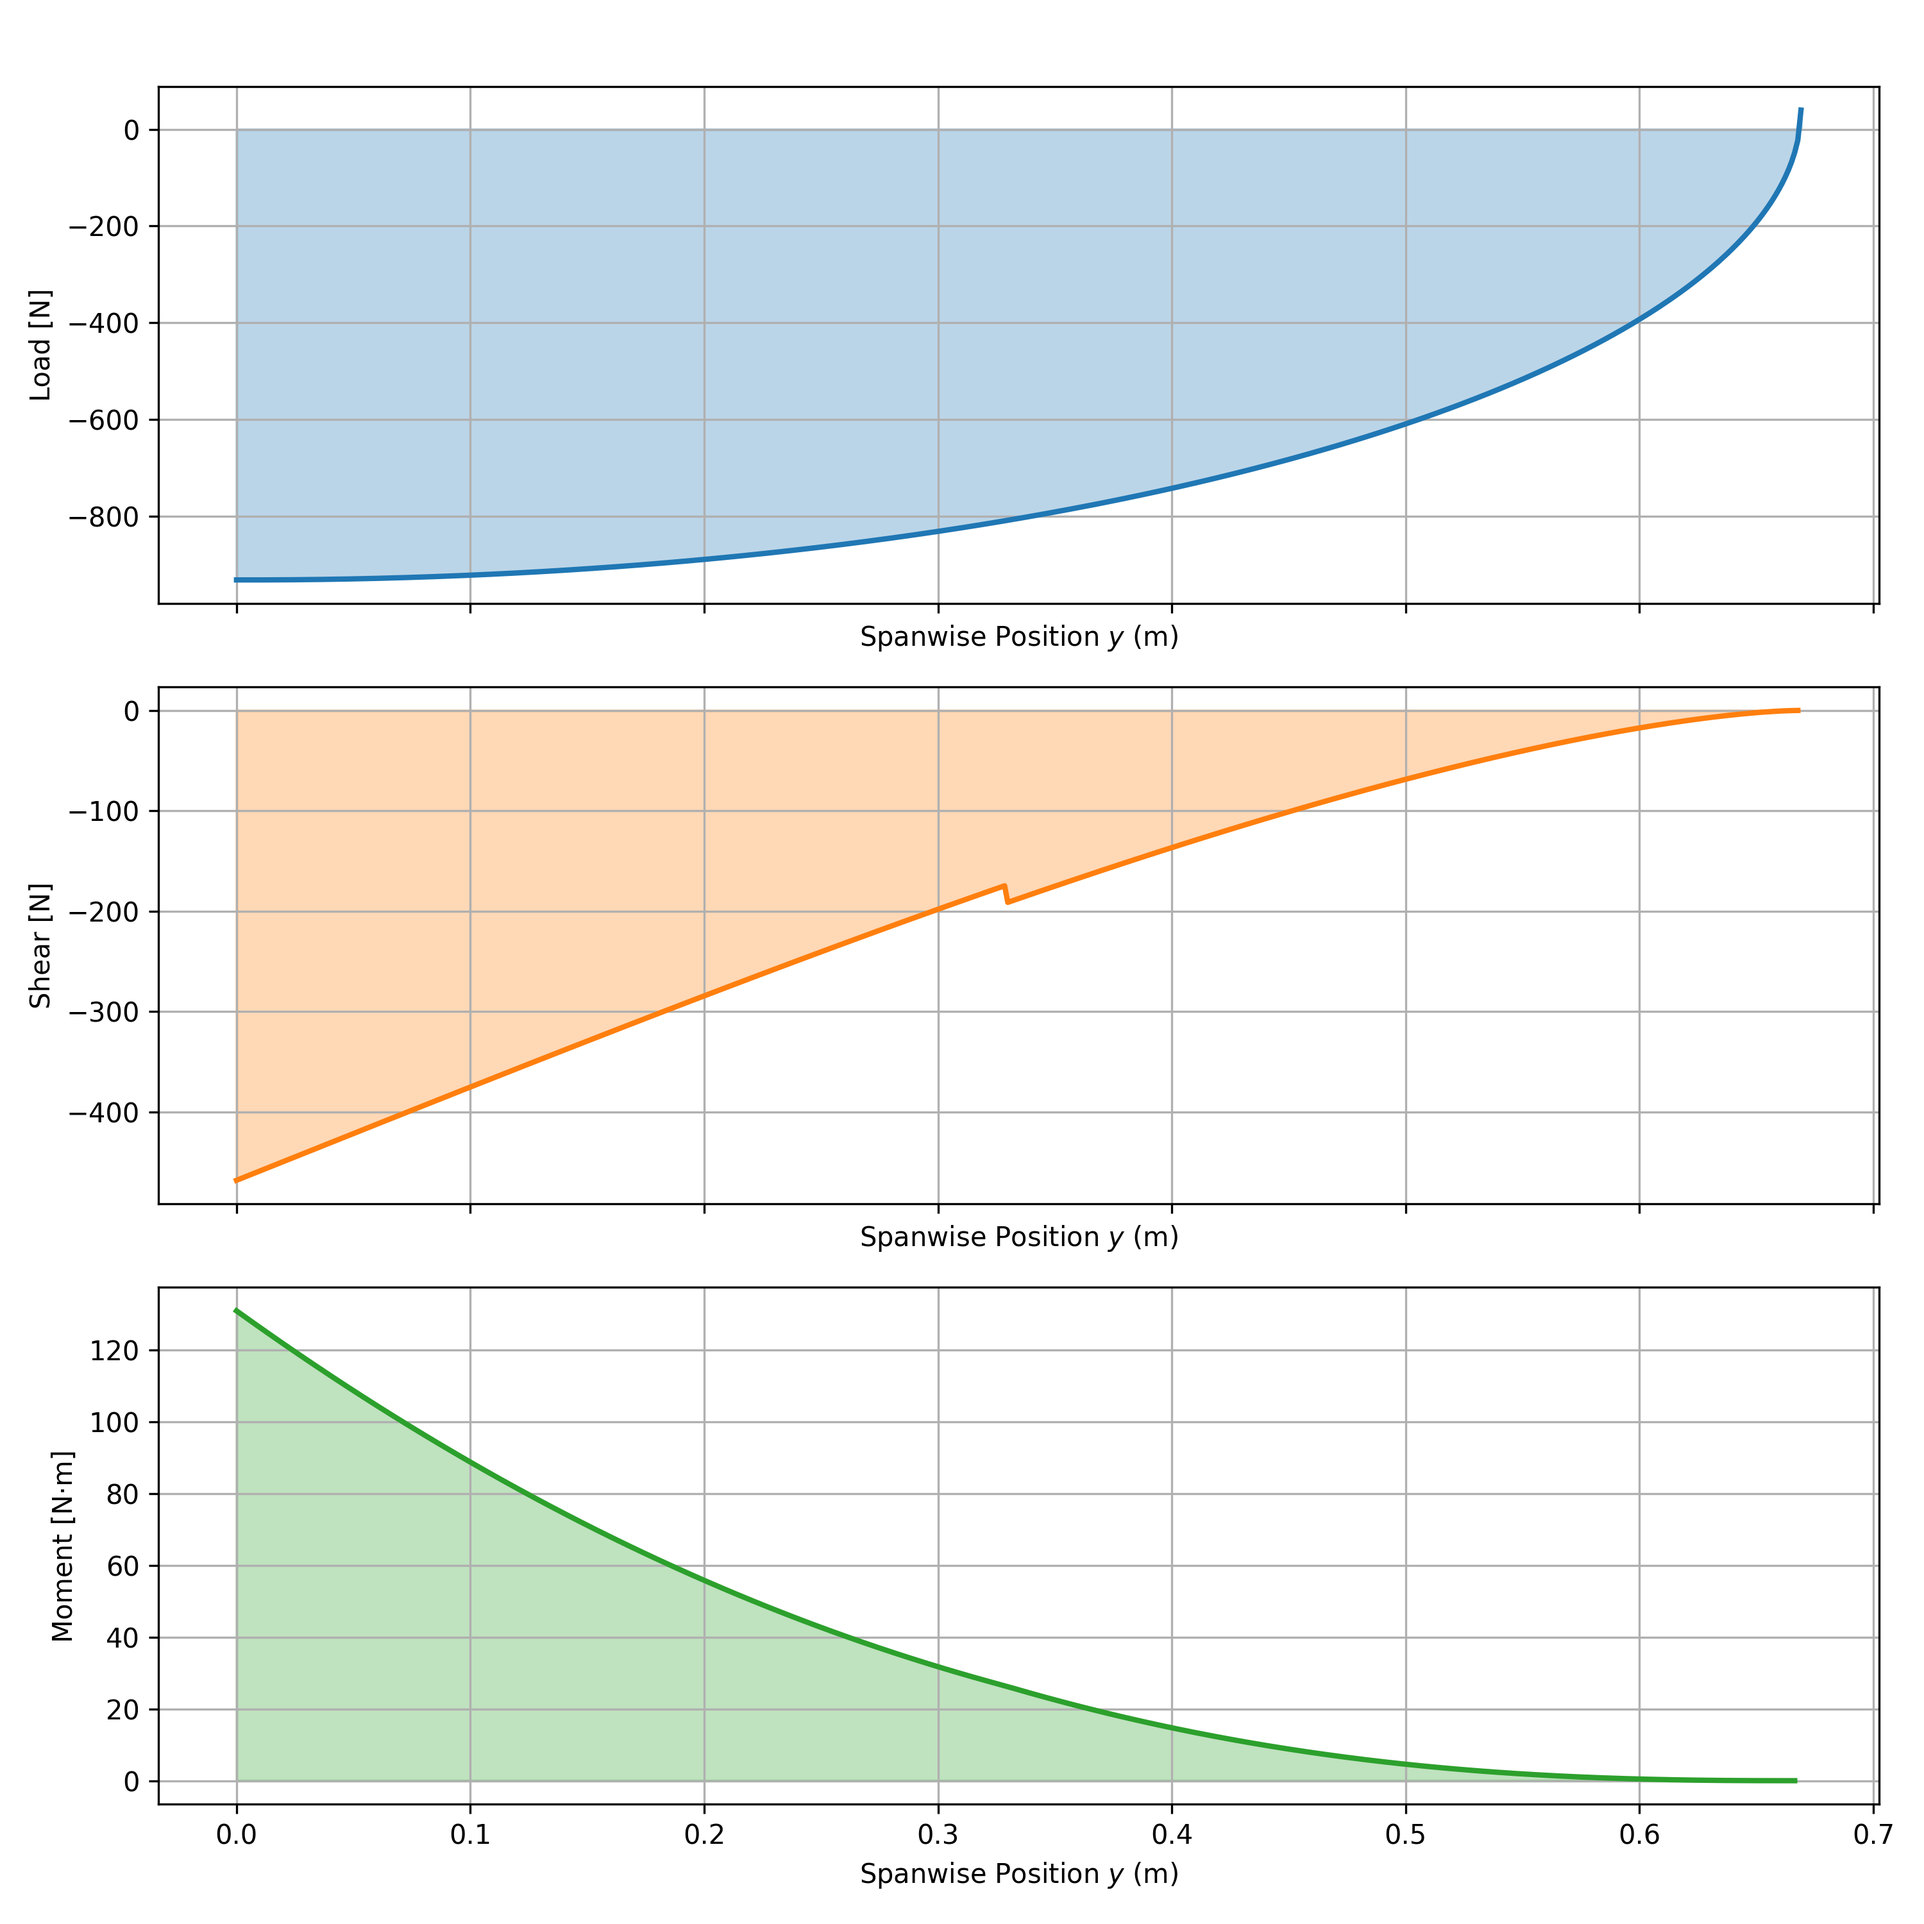
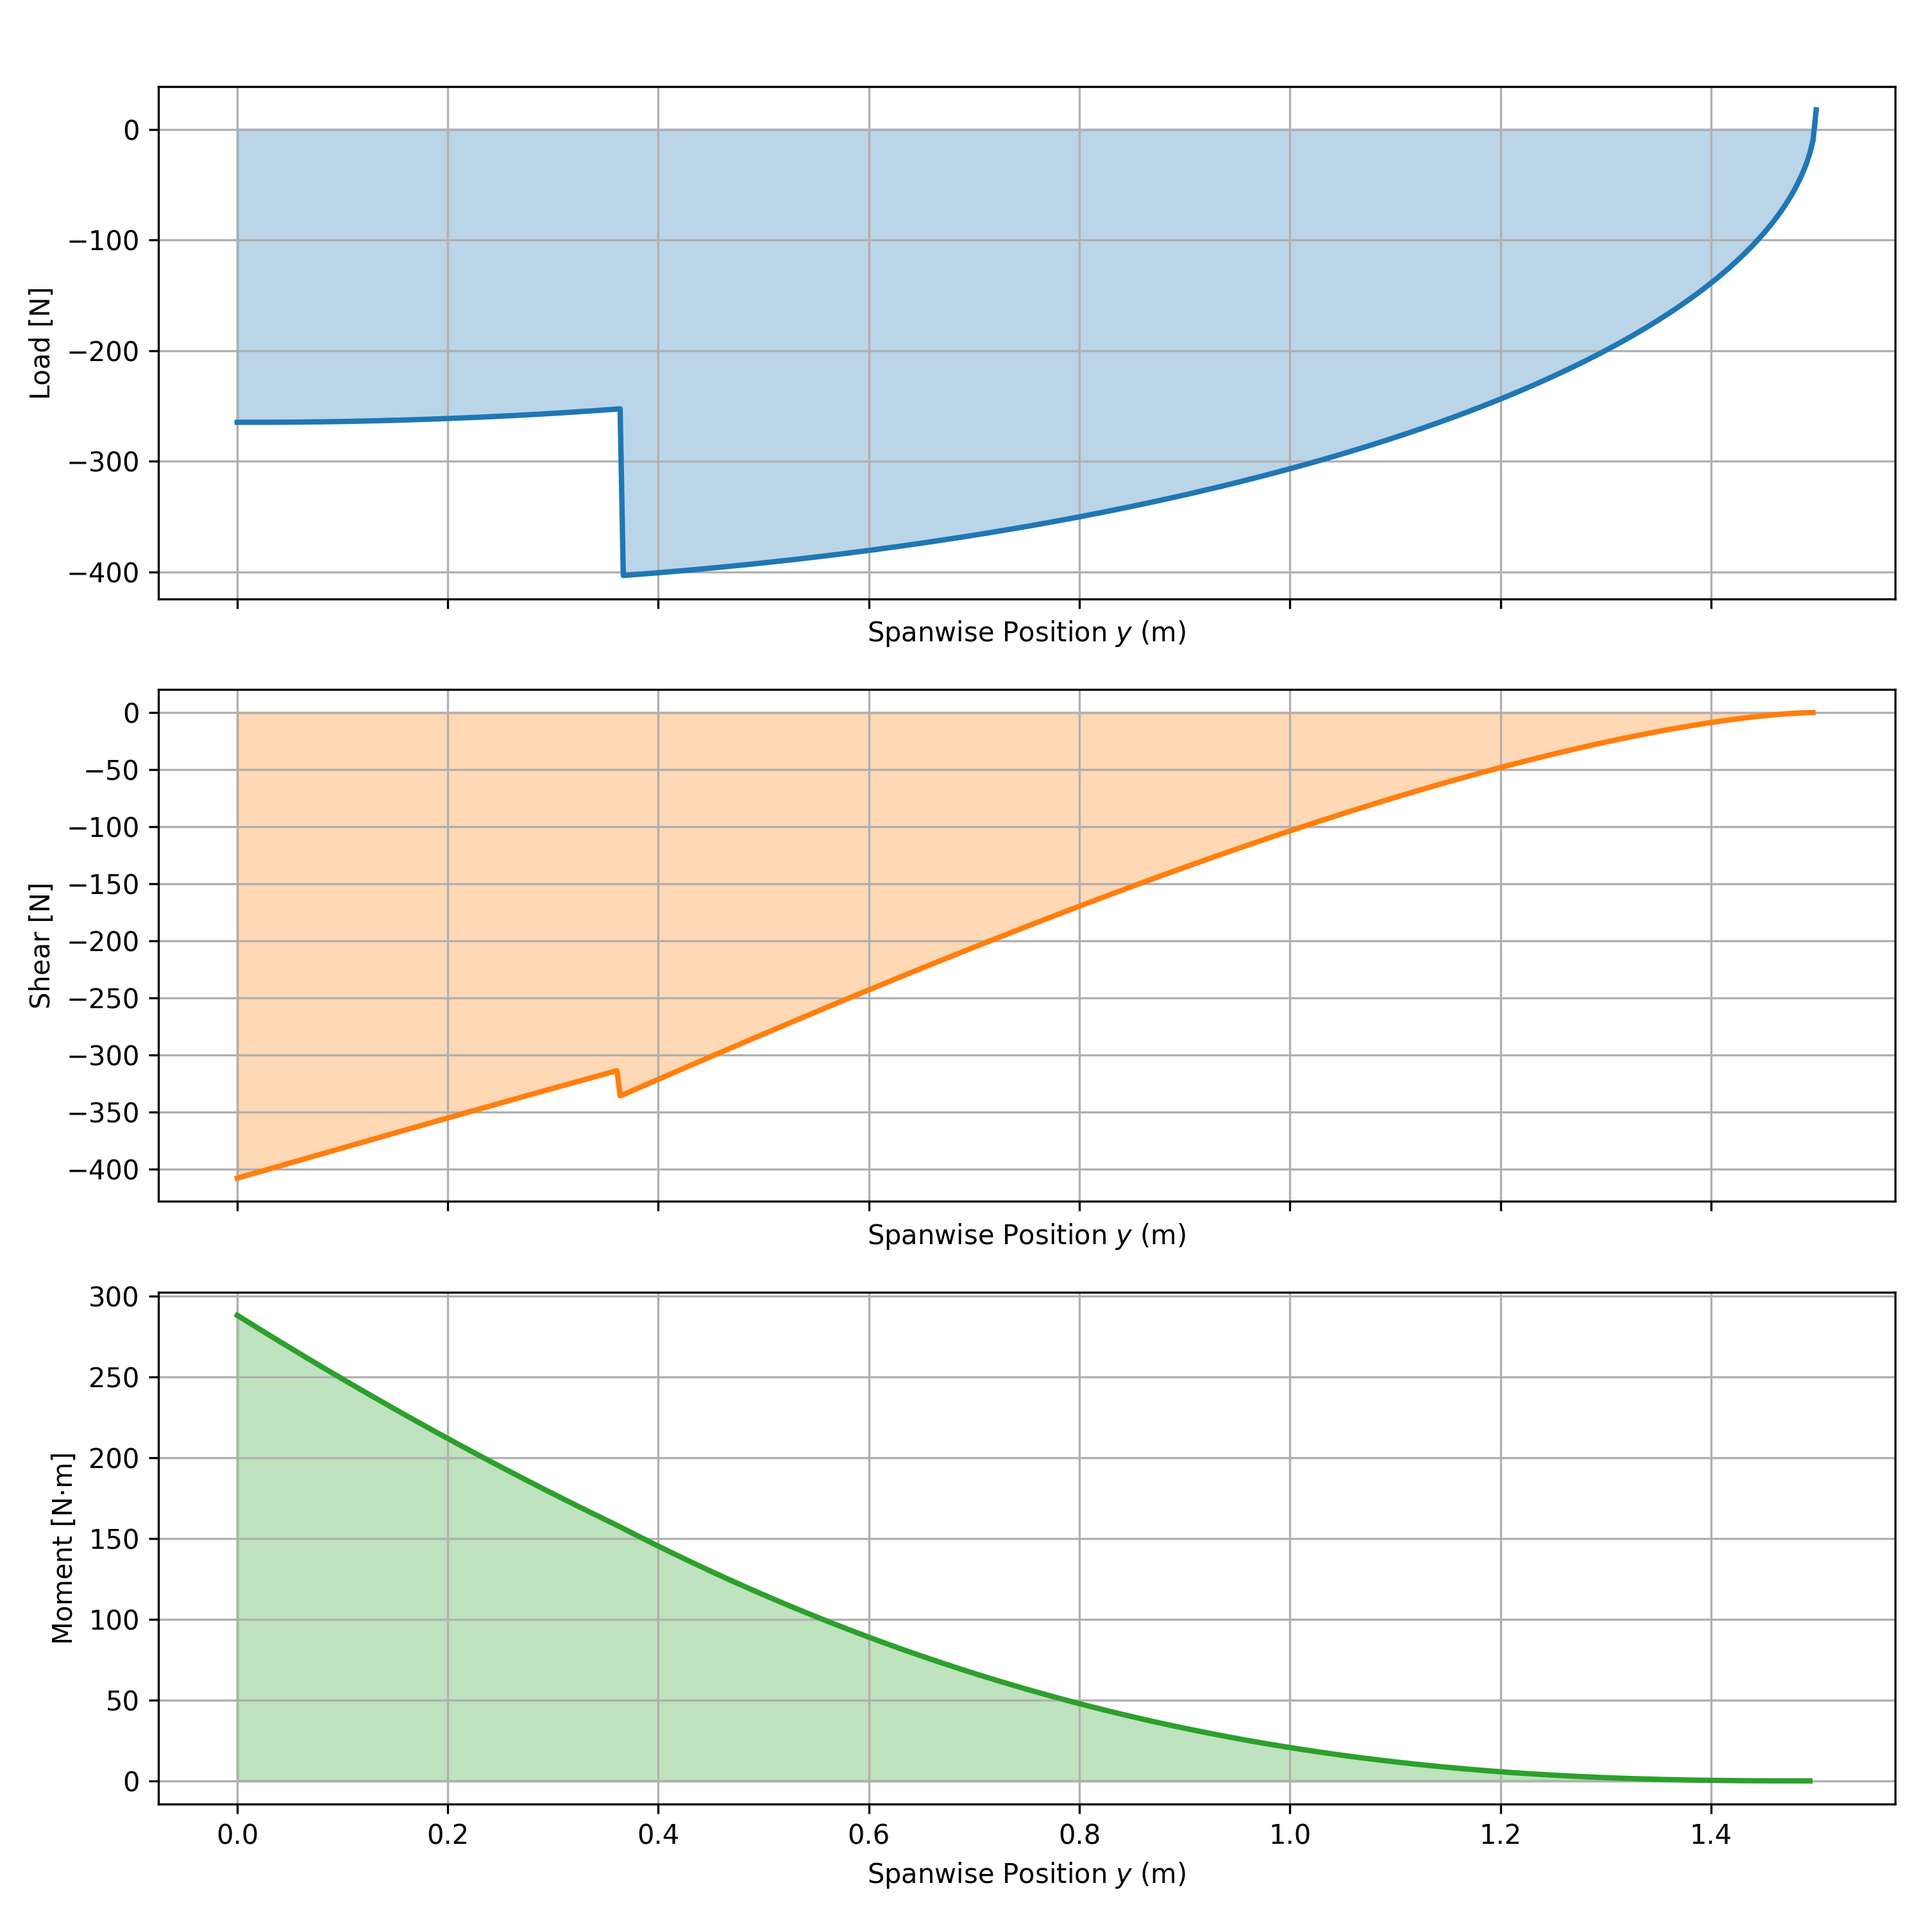
Doing ma best once more

diff --git a/DetailedDesign/subsystems/structures.py b/DetailedDesign/subsystems/structures.py
@@ -36,12 +36,10 @@ class Structures:
         self.rho = self.inputs['rho_0']
         # self.V_max = self.inputs['V_cruise']
 
-        self.M_to = inputs["M_to"]
-
-        self.mass_margin = inputs["mass_margin"]
+        # self.mass_margin = inputs["mass_margin"]
 
         self.mass_payload = inputs["payload_mass"]
-        self.mass_hardware = inputs["mass_hardware"]
+        # self.mass_hardware = inputs["mass_hardware"]
         self.mass_battery = inputs["mass_battery"]
         self.battery_length = inputs['battery_length']
         self.mass_propulsion = inputs["mass_propulsion"]
@@ -62,8 +60,6 @@ class Structures:
 
         self.fuselage_diameter = inputs['fuselage_diameter']
         self.y_prop = max(self.propeller_diameter_VTOL / 2 - self.fuselage_diameter / 2, self.battery_length*2)
-        self.max_shear_titanium = 214*10**6 # inputs['max_shear_titanium']
-        self.max_stress_titanium = inputs['max_stress_titanium']
         self.wind_speed = inputs['wind_speed']
         self.rho_0 = inputs['rho_0']
         self.wing_area = inputs['wing_area']
@@ -74,9 +70,15 @@ class Structures:
         self.shear_strength_alu = inputs['shear_strength_alu']
         self.tensile_strength_foam = inputs['tensile_strength_foam']
         self.tensile_strength_alu = inputs['tensile_strength_alu']
+        self.E_foam = inputs['E_foam']
+        self.E_alu = inputs['E_alu']
+        self.density_alu = inputs['density_alu']
+        self.boom_inner_diameter = inputs['boom_inner_diameter']
 
 
         self.VTOL_boom_thickness = self.determine_VTOL_boom_thickness()
+        self.VTOL_boom_mass = (np.pi*(self.boom_inner_diameter + self.VTOL_boom_thickness)**2 - np.pi*self.boom_inner_diameter**2)*self.VTOL_boom_length*self.density_alu
+
 
                 
 
@@ -168,13 +170,13 @@ class Structures:
 
         # Point load from the propellers
 
-        F_prop = 9.81*2*(self.propeller_mass_VTOL + self.motor_mass_VTOL)
+        F_prop = 9.81*(2*(self.propeller_mass_VTOL + self.motor_mass_VTOL) + self.VTOL_boom_mass)
 
         V_prop = [F_prop if i < self.y_prop else 0 for i in y]
 
         # Distributed lift load from the lift assuming elliptical lift distribution
         L_y = -self.load_factor*((4*self.mtow) / (np.pi*self.span)) * np.sqrt(1 - ((2*y)/self.span)**2)
-        total_forces = W_wing + L_y + W_batt
+        total_forces = W_batt +L_y + W_wing
         forces_rev = total_forces[::-1]
 
         V_rev = integrate.cumulative_simpson(forces_rev, x=y)  + V_prop[::-1][:-1]
@@ -245,7 +247,7 @@ class Structures:
 
         # Point load from the propellers
 
-        F_prop = 9.81*2*(self.propeller_mass_VTOL + self.motor_mass_VTOL) - 0.5*self.mtow
+        F_prop = 9.81*(2*(self.propeller_mass_VTOL + self.motor_mass_VTOL) + self.VTOL_boom_mass) - 0.5*self.mtow
 
 
         V_prop = [F_prop if i < self.y_prop else 0 for i in y]
@@ -296,14 +298,10 @@ class Structures:
     def NVM_propeller_boom(self, size_thickness = False) -> float | None:
         """
         This function calculates the NVM (Normal, Shear, and Bending Moment) for the boom that supports the VTOL propellers.
-        It considers the distributed loads from the boom weight, the weight from the propellers and motors and the lift that those generate.
+        It considers the distributed loads from the wind, the boom weight, the weight from the propellers and motors and the lift that those generate.
         It then plots the distributed load, shear force, and bending moment along the span of the wing.
 
-        load factor is from the gust loads
-
         Down is considered positive in this context, as per the provided reference and convention for aircraft coordinate systems.
-
-        The load factor is 1
         """
 
         # https://uotechnology.edu.iq/dep-MechanicsandEquipment/Lectures%20and%20Syllabus/Lectures/Aircraft/Foruth%20Grade/Aircraft%20Design3.pdf
@@ -313,18 +311,20 @@ class Structures:
 
         # Distributed load from the boom weight
 
-        I_circle = (np.pi / 64)*self.VTOL_boom_thickness**4
-        boom_weight = (0.5*self.VTOL_boom_thickness)**2 * np.pi * self.VTOL_boom_length * self.titanium_density *9.81
+        I_circle = (np.pi / 4)* ((self.boom_inner_diameter/2+self.VTOL_boom_thickness)**4 - (self.boom_inner_diameter/2)**4)
+        boom_weight = (0.5*self.VTOL_boom_thickness)**2 * np.pi * self.VTOL_boom_length * self.density_alu *9.81
         #print('boom_mass', boom_weight / 9.81)
         W_boom = np.array([boom_weight / self.VTOL_boom_length for _ in y])
 
+        F_gust = -0.5*self.rho_0* self.wind_speed**2 * (self.boom_inner_diameter + 2*self.VTOL_boom_thickness / 2)
+        W_gust = np.array([F_gust / self.VTOL_boom_length for _ in y])
+
         # Point load from the propeller
 
-        F_prop = self.load_factor*9.81*(self.propeller_mass_VTOL + self.motor_mass_VTOL) - 0.25*self.mtow
-
+        F_prop = 9.81*(self.propeller_mass_VTOL + self.motor_mass_VTOL) - 0.25*self.mtow
         V_prop = [-F_prop if i < 0 else F_prop for i in y]
 
-        total_forces = W_boom
+        total_forces = W_boom + W_gust
         forces_rev = W_boom[::-1]
 
         V_left = integrate.cumulative_simpson(total_forces, x=y) - V_prop[:-1]
@@ -337,8 +337,8 @@ class Structures:
 
         M = np.concatenate((-M_left[:len(y)//2], -M_rev[::-1][len(y)//2:]))
 
-        deflection_left = -(1/(self.titanium_E*I_circle))* integrate.cumulative_simpson(integrate.cumulative_simpson(M_left, x=y[:-2]), x=y[:-3])
-        deflection_rev = -(1/(self.titanium_E*I_circle))* integrate.cumulative_simpson(integrate.cumulative_simpson(M_rev, x=y[:-2]), x=y[:-3])
+        deflection_left = -(1/(self.E_alu*I_circle))* integrate.cumulative_simpson(integrate.cumulative_simpson(M_left, x=y[:-2]), x=y[:-3])
+        deflection_rev = -(1/(self.E_alu*I_circle))* integrate.cumulative_simpson(integrate.cumulative_simpson(M_rev, x=y[:-2]), x=y[:-3])
 
         deflection = np.concatenate((deflection_rev[::-1][len(y)//2:], deflection_left[:len(y)//2]))
 
@@ -378,12 +378,12 @@ class Structures:
         return None
     
     def determine_VTOL_boom_thickness(self) -> float:
-        t_range = np.linspace(00.001, 0.1, 100)
+        t_range = np.linspace(0.001, 0.05, 100)
         for t in t_range:
             self.VTOL_boom_thickness = t
             deflection = self.NVM_propeller_boom(size_thickness=True)
             if deflection <= self.max_deflection_VTOL_boom:
-                return t
+                return round(t, 4) #rounded to half a mm
         return None
     
     def determine_fuselage_thickness(self) -> float:
@@ -415,32 +415,17 @@ class Structures:
         alu_t = np.array([0.8, 1, 1.25, 1.5]) / 1000
         core_t = np.array([3, 5, 10, 20]) / 1000
 
-        # Fuselage
-        _, V_cruise_root, M_cruise_root = self.NVM_cruise(return_root_values=True)
-        _, V_VTOL_root, M_VTOL_root = self.NVM_VTOL(return_root_values=True)
-
-        V_fus = 2 * max(abs(V_cruise), abs(V_VTOL))
-        M_fus = 2 * max(abs(M_cruise), abs(M_VTOL))
-
-        t_V_fus = V / (self.max_shear_titanium*np.pi*self.fuselage_diameter)
-        t_M_fus = (8*M) / (np.pi*self.fuselage_diameter**3*self.max_stress_titanium)
+        viable = []
 
         for t_a in alu_t:
             for t_c in core_t:
                 k_eff = (2*t_a + t_c) / (2*t_a / self.conductivity_alu + t_c / self.conductivity_foam)
                 max_tensile_load = max(2*t_a*self.tensile_strength_alu, t_c*self.tensile_strength_foam)
                 max_shear_load = self.shear_strength_foam*t_c #This is per meter width
-                print(f'Aluminium thickness: {t_a*1000} mm, Core thickness: {t_c*1000} mm, Effective conductivity: {round(k_eff, 3)} W/mK, max tensile stress: {max_tensile_load} N, max shear load / meter: {max_shear_load}')
+                E = (self.E_alu*t_a*2 + self.E_foam*t_c) / (2*t_a + t_c)
+                print(f'Aluminium thickness: {t_a*1000} mm, Core thickness: {t_c*1000} mm, Effective conductivity: {round(k_eff, 3)} W/mK, max tensile stress: {max_tensile_load} N, max shear load / meter: {max_shear_load}, E: {E / 10**9}')
 
-        # wing
-
-        _, V_cruise, M_cruise = self.NVM_cruise(return_max_values=True)
-        _, V_VTOL, M_VTOL = self.NVM_VTOL(return_max_values=True)
-
-        V = 2 * max(abs(V_cruise), abs(V_VTOL))
-        M = 2 * max(abs(M_cruise), abs(M_VTOL))
-
-        return ...
+        return 
 
     # ~~~ Output functions ~~~
 
@@ -468,8 +453,9 @@ class Structures:
 
 if __name__ == "__main__":  # pragma: no cover
     a = Structures(fi)
-    # print(a.determine_VTOL_boom_thickness())
-    # a.NVM_VTOL()
-    # a.NVM_cruise()
-    # a.NVM_propeller_boom()
-    a.sandwich()
+    #print(a.determine_VTOL_boom_thickness())
+    a.NVM_VTOL()
+    a.NVM_cruise()
+    a.NVM_propeller_boom()
+    # a.sandwich()
+    print(a.mass_battery)

diff --git a/DetailedDesign/funny_inputs.py b/DetailedDesign/funny_inputs.py
@@ -204,6 +204,10 @@ structures_funny_inputs = {
     "tensile_strength_foam": 1.7 * 10**6, #Pa
     "tensile_strength_alu": 193 * 10**6, #Pa
     "tensile_strength_reduction_temp": 0.9, #- https://firesciencereviews.springeropen.com/articles/10.1186/s40038-015-0007-5#:~:text=This%20concern%20is%20exacerbated%20for,(Langhelle%20and%20Amdahl%202001).
+    "E_foam": 0.123*10**9, #Pa
+    "E_alu": 70.3 * 10**9, #Pa
+    "density_alu": 2.68 * 1000, #kg/m3
+    "boom_inner_diameter": 0.015 #m
 }
 
 funny_inputs.update(structures_funny_inputs)
@@ -366,10 +370,6 @@ final_outputs = {
     "volume_fueltank": 1.8296442000000004,
     "refills_for_mission": 0,
 }
-funny_inputs.update(final_outputs)
-
-
-funny_inputs.update()
 
 # ~~~ Hardware ~~~
 
